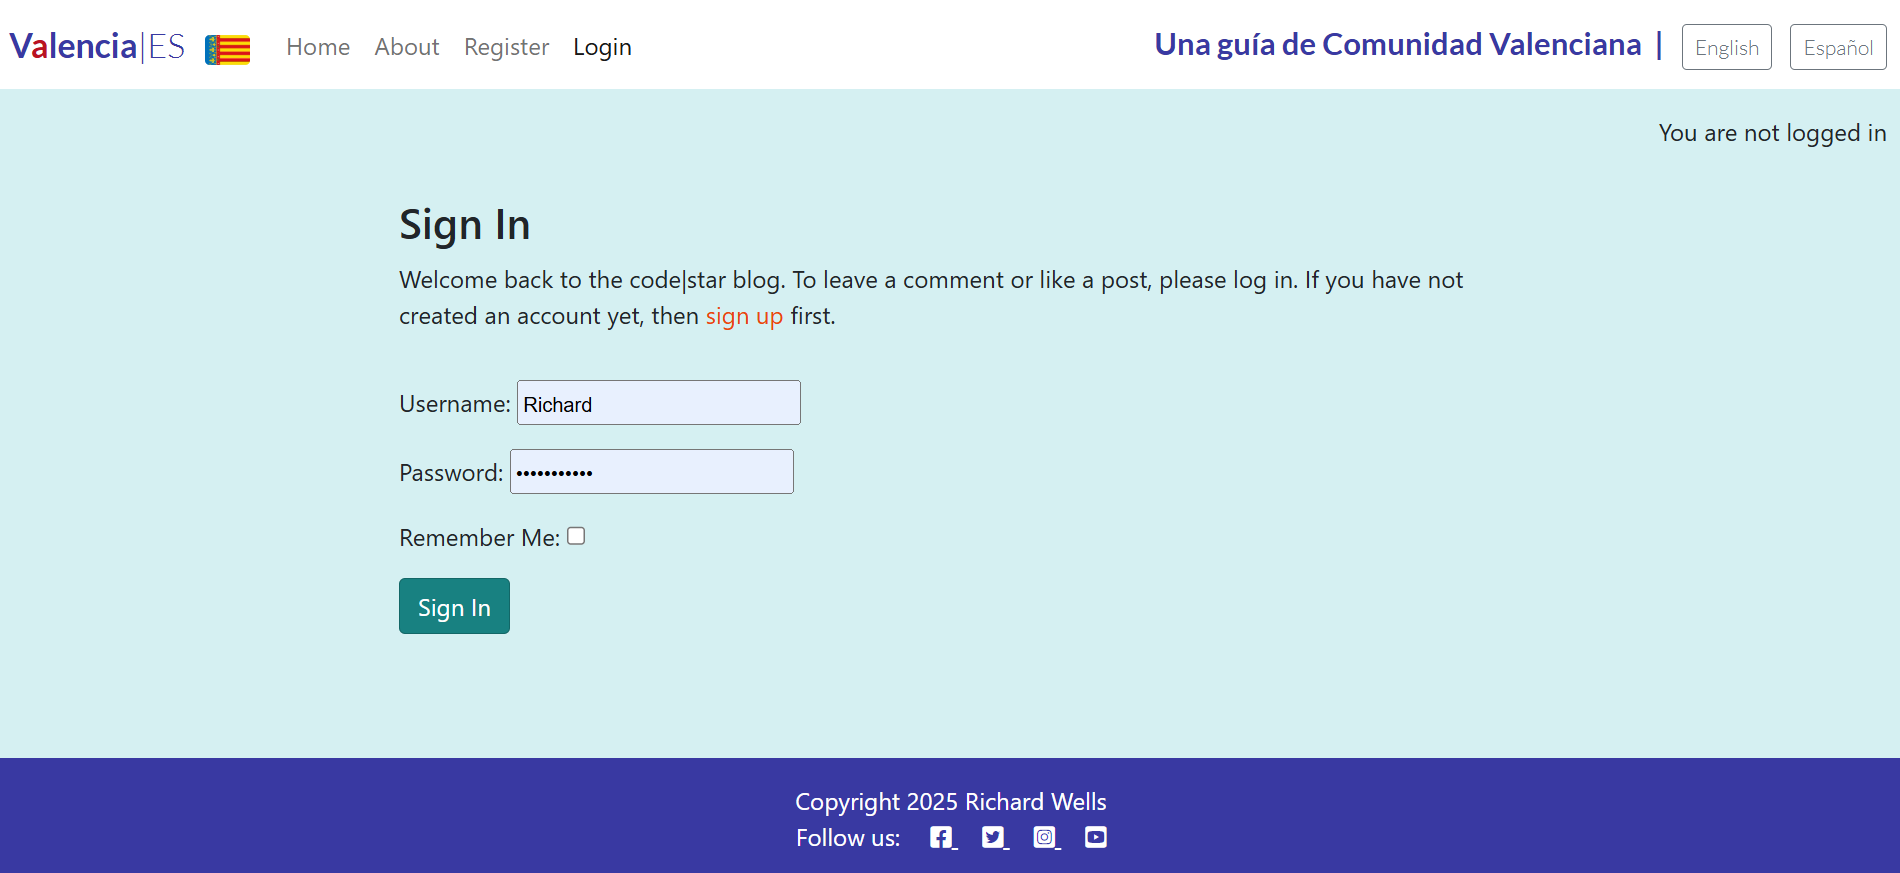
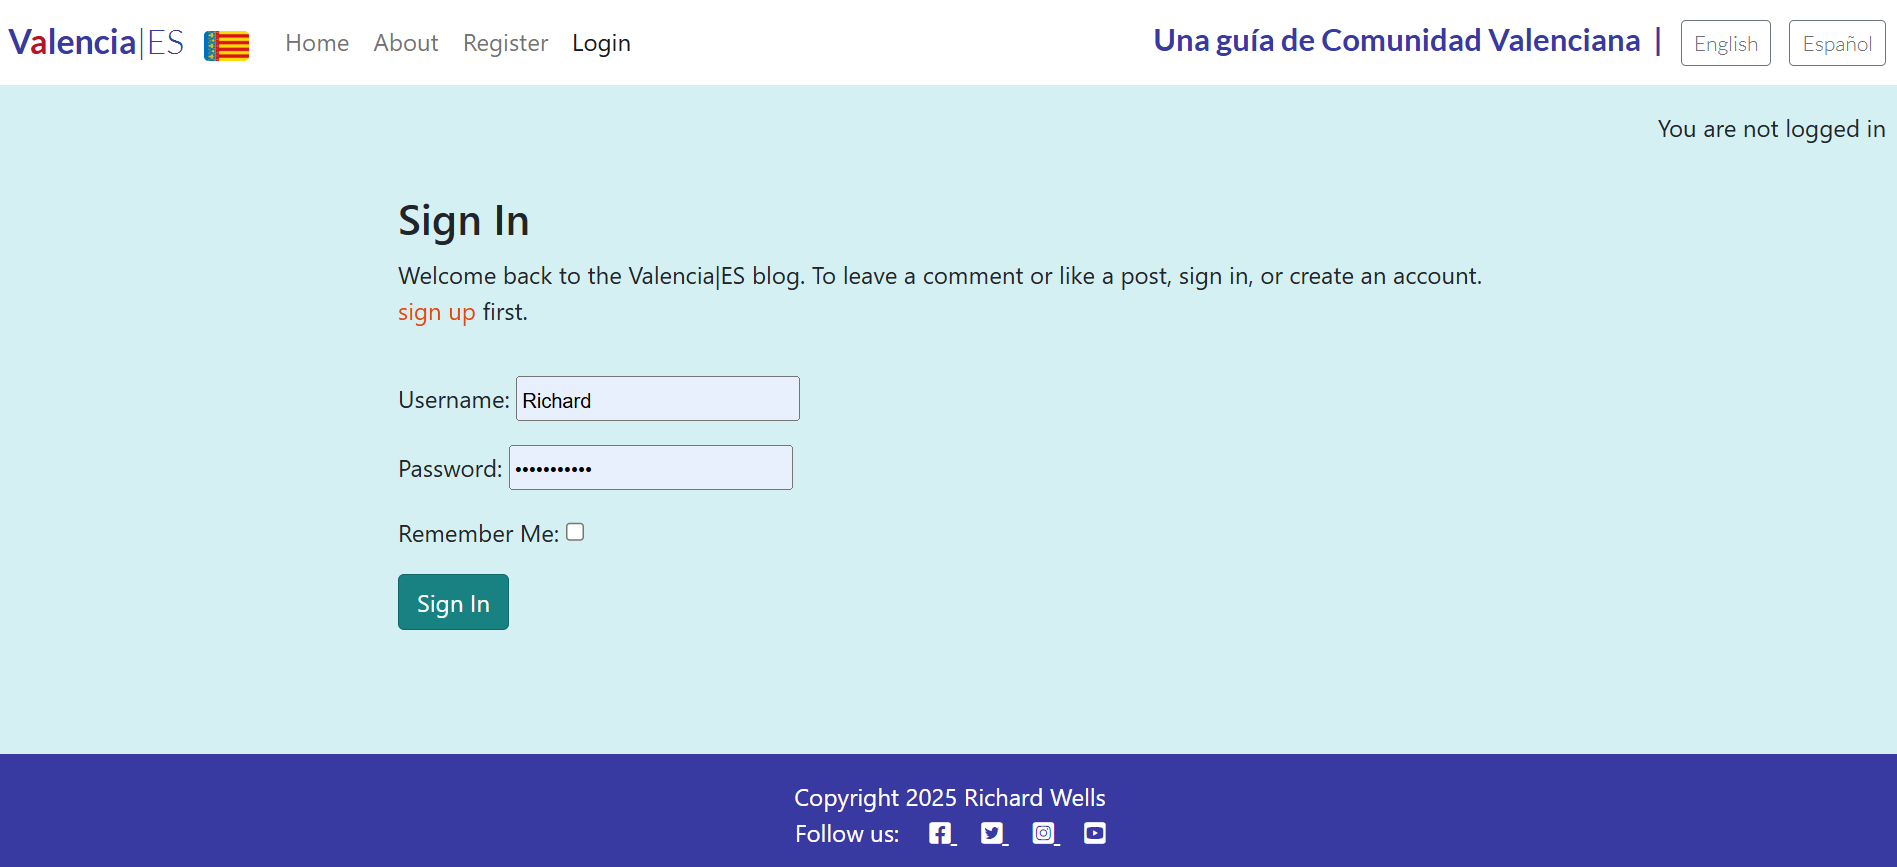
comments to login and sign up html

diff --git a/templates/account/login.html b/templates/account/login.html
@@ -1,10 +1,16 @@
+{# Extend the base site layout #}
 {% extends "base.html" %}
 
+{# Load internationalization tags #}
 {% load i18n %}
+
+{# Load account and social account tags for authentication features #}
 {% load account socialaccount %}
 
+{# Set the page title in the HTML <title> tag using a translation string #}
 {% block head_title %}{% trans "Sign In" %}{% endblock %}
 
+{# Begin the main content block #}
 {% block content %}
 
 <div class="container">
@@ -12,22 +18,38 @@
         <div class="col-md-8 mt-3 offset-md-2">
             <h3>{% trans "Sign In" %}</h3>
 
-           <p>{% blocktrans %}Welcome back to the Valencia|ES blog. To leave a comment or like a post, sign in, or create an account.<a class="link" href="{{ signup_url }}"> sign up </a> first.{% endblocktrans %}</p>
-
-
+            {# Translatable welcome message with a dynamic sign-up link #}
+            <p>
+                {% blocktrans %}
+                Welcome back to the Valencia|ES blog. To leave a comment or like a post, sign in, or create an account.
+                <a class="link" href="{{ signup_url }}">sign up</a> first.
+                {% endblocktrans %}
+            </p>
         </div>
     </div>
+
     <div class="row">
         <div class="col-md-8 mt-3 offset-md-2">
+
+            {# Login form starts here; posts data to the account_login URL #}
             <form class="login" method="POST" action="{% url 'account_login' %}">
                 {% csrf_token %}
+
+                {# Render the login form fields (username/email + password) #}
                 {{ form.as_p }}
+
+                {# Include hidden redirect field if it exists (e.g., redirect to a specific page after login) #}
                 {% if redirect_field_value %}
                 <input type="hidden" name="{{ redirect_field_name }}" value="{{ redirect_field_value }}" />
                 {% endif %}
+
+                {# Submit button for the login form #}
                 <button class="btn btn-signup right" type="submit">{% trans "Sign In" %}</button>
             </form>
+
         </div>
     </div>
 </div>
+
+{# End of the content block #}
 {% endblock %}

diff --git a/templates/account/signup.html b/templates/account/signup.html
@@ -1,38 +1,56 @@
+{# Extend the base site layout, which includes the main HTML structure #}
 {% extends "base.html" %}
 
+{# Load Django’s internationalization (i18n) features #}
 {% load i18n %}
 
+{# Set the <title> of the page to "Signup" using a translatable string #}
 {% block head_title %}{% trans "Signup" %}{% endblock %}
 
+{# Begin the content block defined in base.html #}
 {% block content %}
+
 <div class="container">
   <div class="row">
     <div class="col-md-8 mt-3 offset-md-2">
       <h3>{% trans "Sign Up" %}</h3>
 
-      <p>{% blocktrans %}
+      {# Translatable paragraph that links to the login page if user already has an account #}
+      <p>
+        {% blocktrans %}
         Welcome back to the Valencia|ES blog.
         Do you already have an account? Then please
         <a class="link" href="{{ login_url }}">sign in</a>
         instead.
-      {% endblocktrans %}</p>
+        {% endblocktrans %}
+      </p>
     </div>
   </div>
+
   <div class="row">
     <div class="col-md-8 mt-3 offset-md-2">
-      <form class="signup" id="signup_form" method="post"
-        action="{% url 'account_signup' %}">
+
+      {# Signup form that submits to the 'account_signup' URL #}
+      <form class="signup" id="signup_form" method="post" action="{% url 'account_signup' %}">
         {% csrf_token %}
+
+        {# Render form fields (usually username, email, password) as paragraphs #}
         {{ form.as_p }}
+
+        {# Include hidden redirect field if redirect is specified #}
         {% if redirect_field_value %}
-        <input type="hidden" name="{{ redirect_field_name }}"
-          value="{{ redirect_field_value }}" />
+        <input type="hidden" name="{{ redirect_field_name }}" value="{{ redirect_field_value }}" />
         {% endif %}
+
+        {# Submit button for creating a new account #}
         <button class="btn btn-signup right" type="submit">
-          {% trans "Sign Up" %} &raquo;</button>
+          {% trans "Sign Up" %} &raquo;
+        </button>
       </form>
+
     </div>
   </div>
 </div>
 
+{# End the content block #}
 {% endblock %}

diff --git a/validations.md b/validations.md
@@ -136,7 +136,7 @@
 
 ### Login Page (Source Code)
 
-![Alt text](static/images/Login-val.png)
+![Alt text](static/images/Html-login-source.png)
 
 ### Logout Page (Source Code)
 
